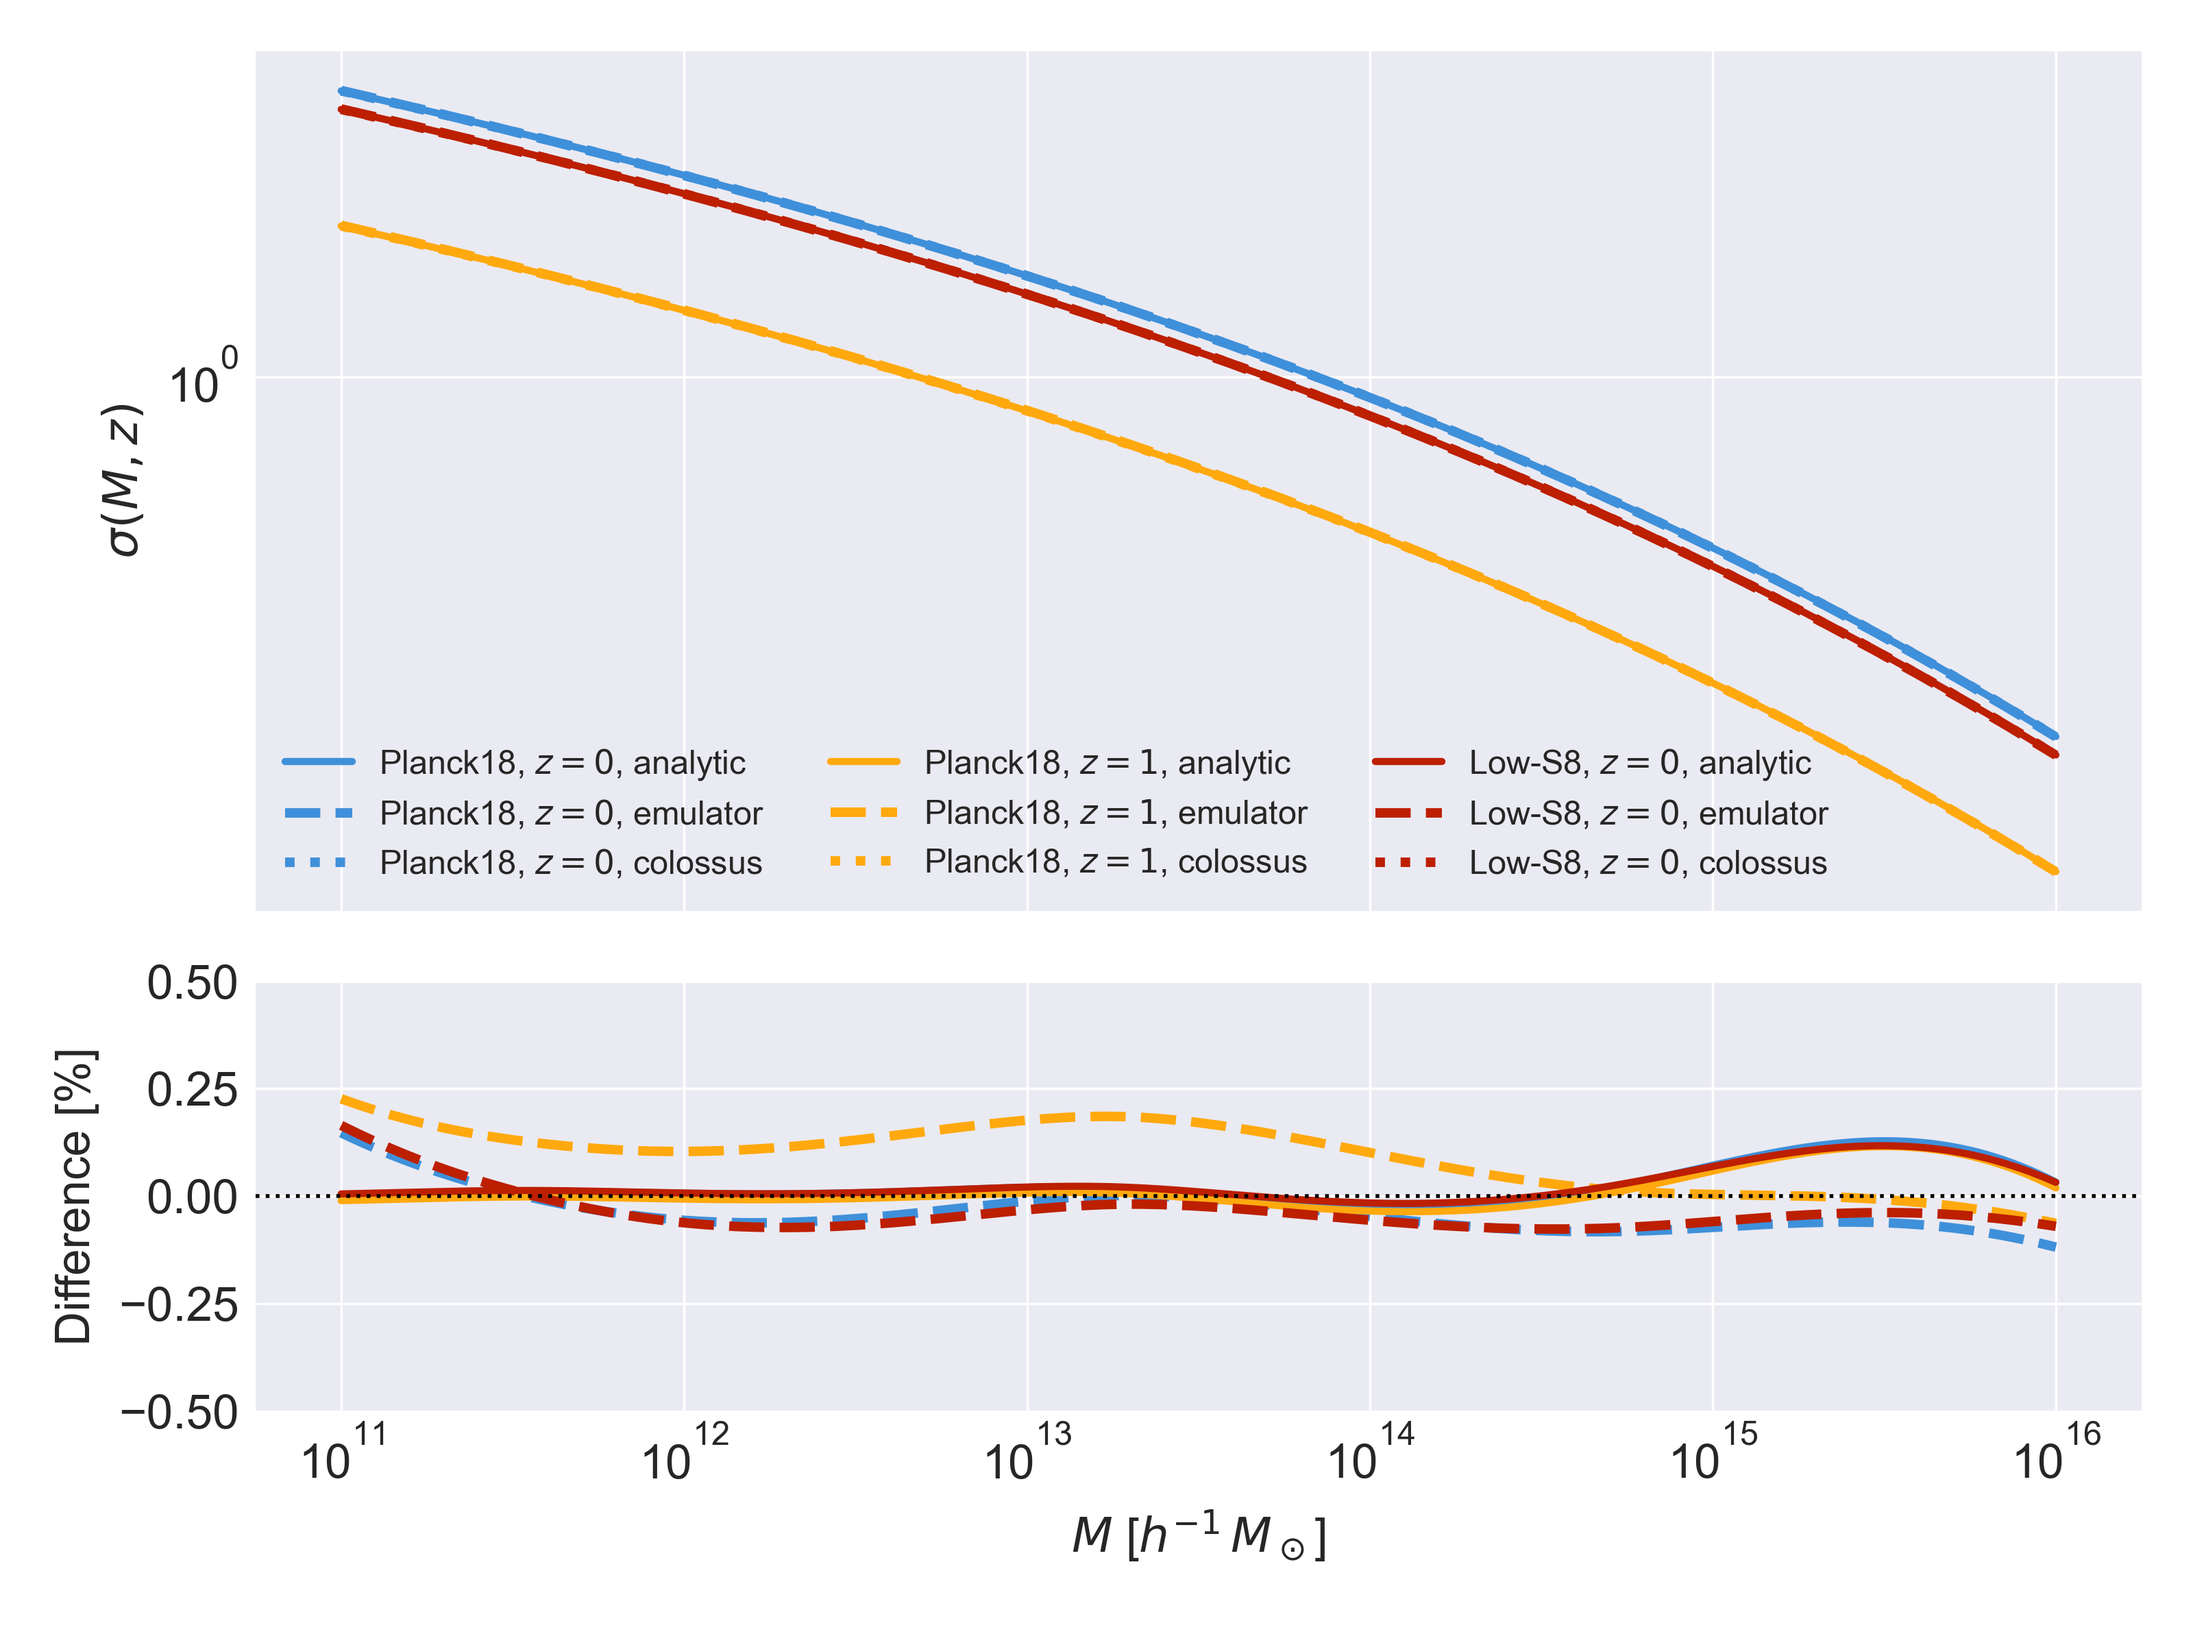
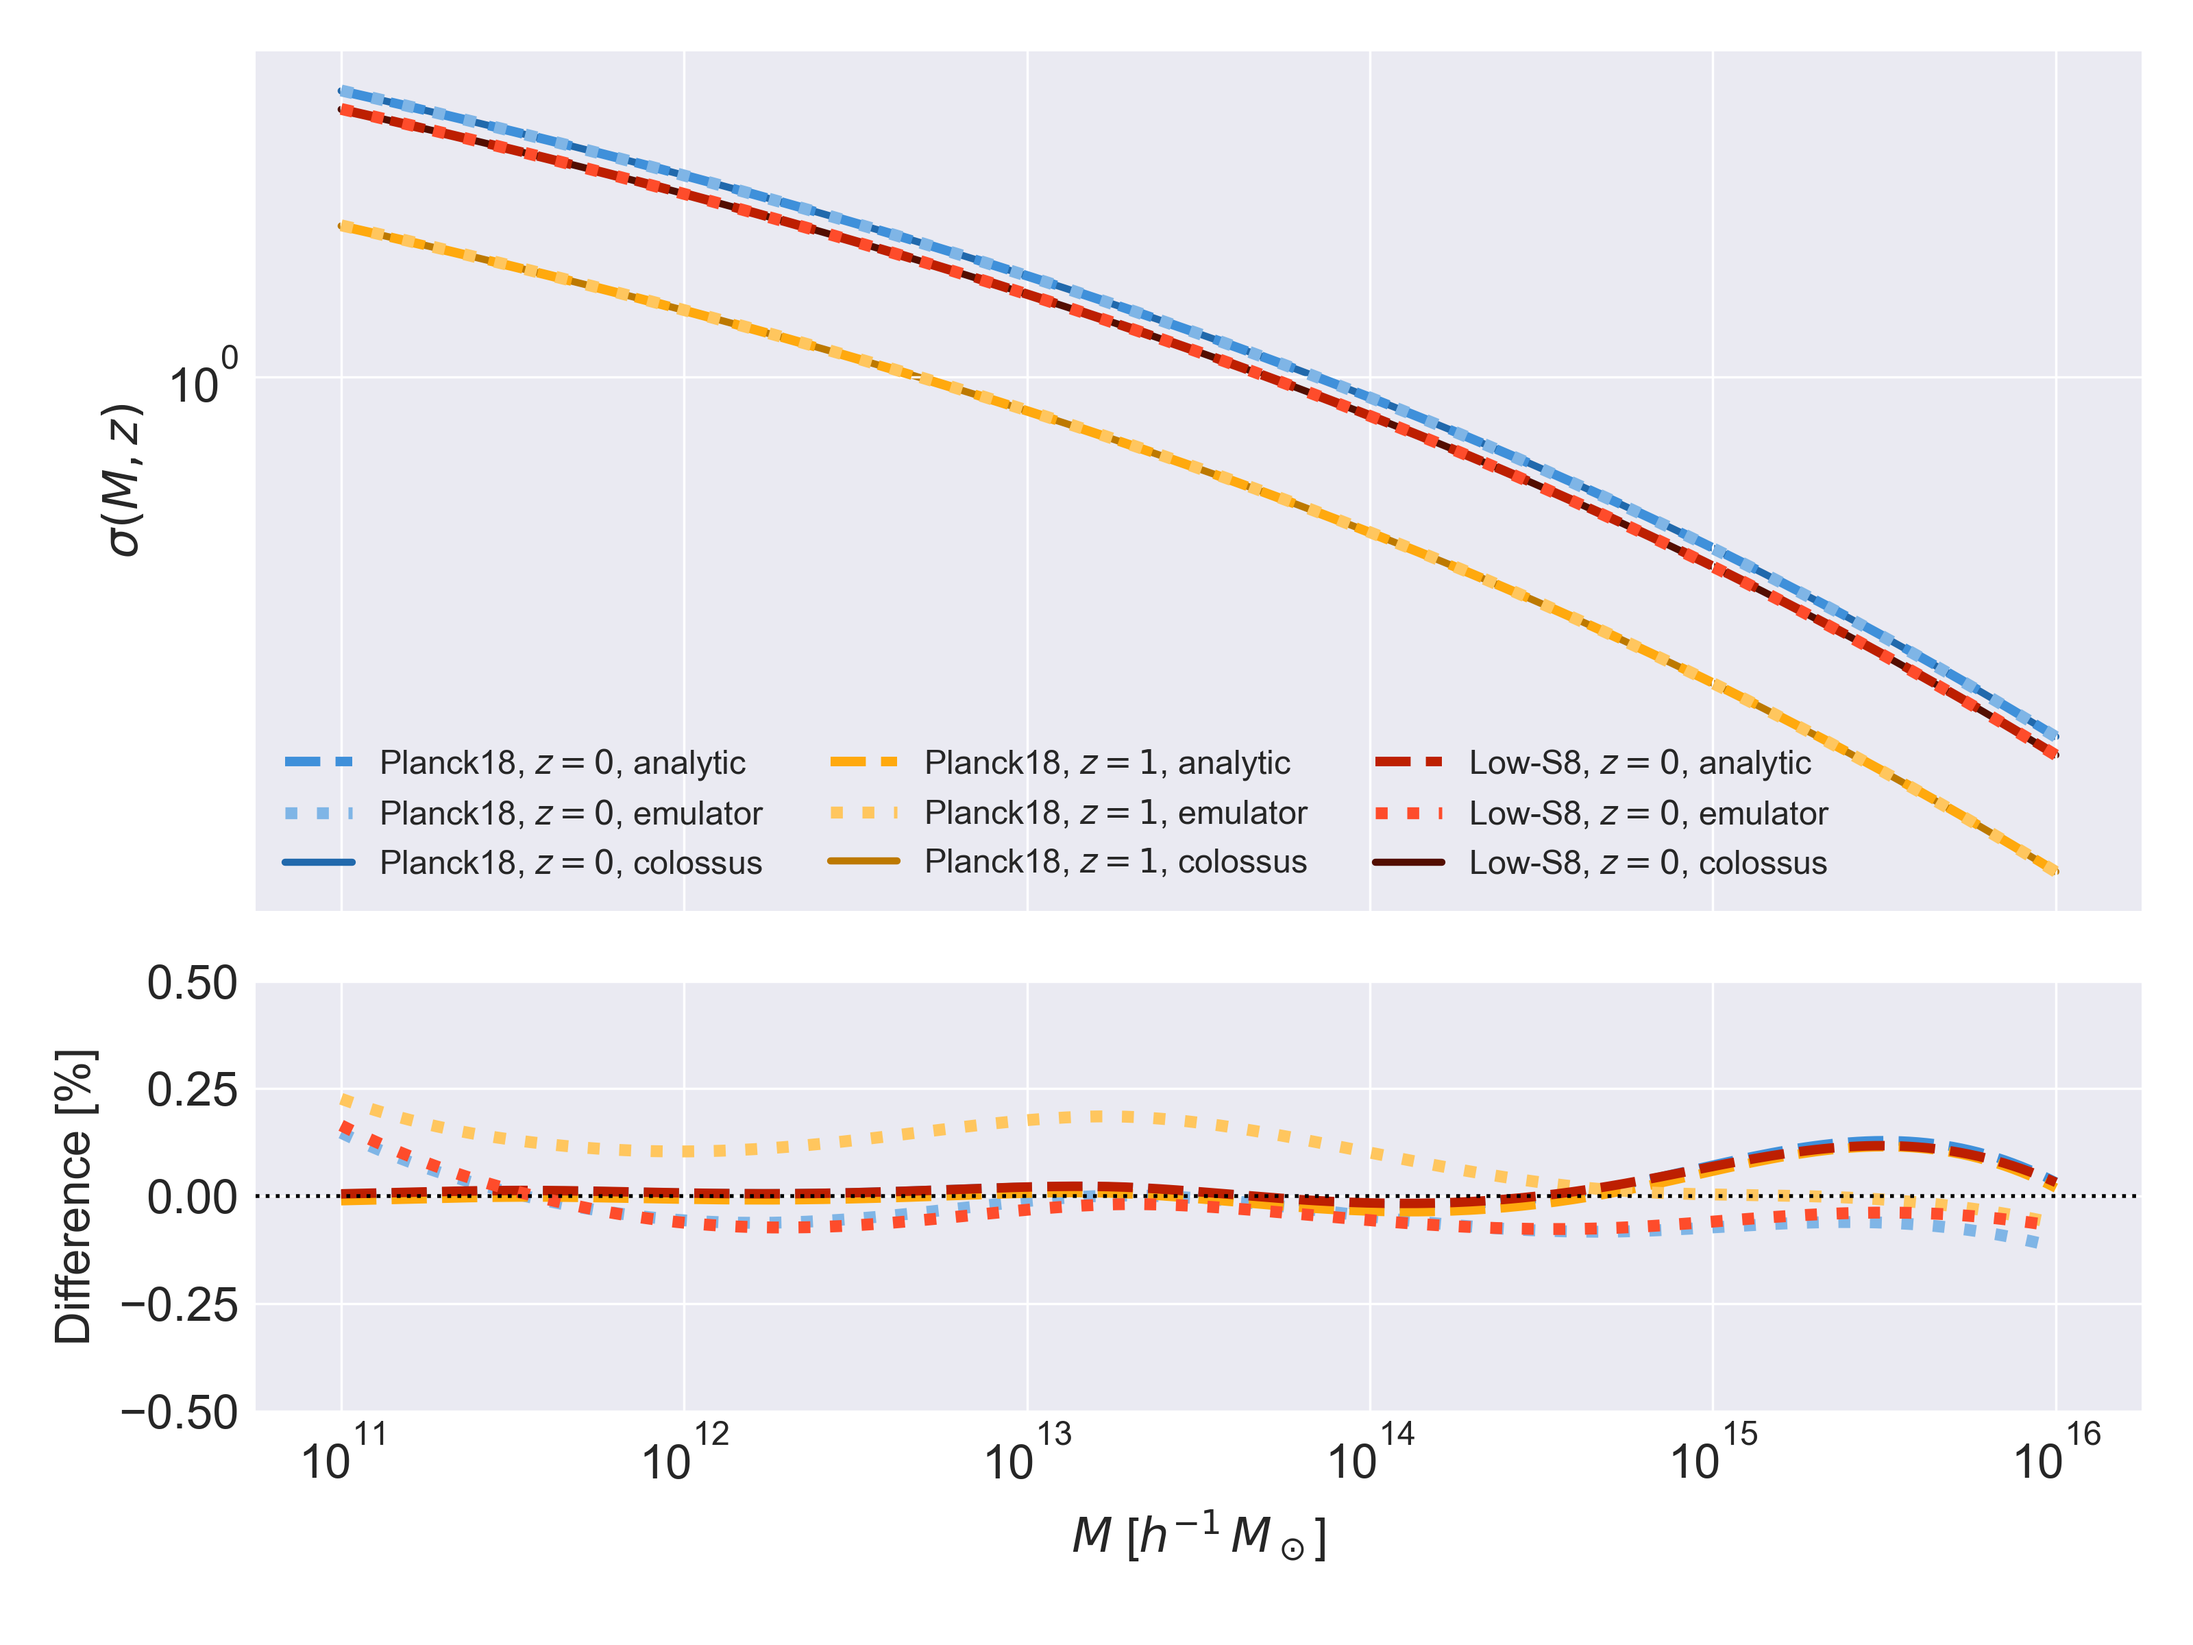
update plots

diff --git a/paper/figure_scripts/plot_sigmaM_emulator.py b/paper/figure_scripts/plot_sigmaM_emulator.py
@@ -2,7 +2,6 @@
 
 import jax
 import jax.numpy as jnp
-import matplotlib.pyplot as plt
 import numpy as np
 from colossus.lss import peaks, mass_function
 import colossus.cosmology.cosmology as cc
@@ -10,10 +9,19 @@ import colossus.cosmology.cosmology as cc
 from halox import cosmology, hmf, lss
 from halox.emus import SigmaMEmulator
 
+import matplotlib.pyplot as plt
+import matplotlib.colors as mcolors
+import colorsys
+
 jax.config.update("jax_enable_x64", True)
 
 plt.style.use(["seaborn-v0_8-darkgrid", "petroff10"])
 plt.rcParams.update({"xtick.direction": "in", "ytick.direction": "in"})
+def lighten_color(color, amount=0.5):
+    c = mcolors.to_rgb(color)
+    h, l, s = colorsys.rgb_to_hls(*c)
+    l = 1 - (1 - l) * (1 - amount)
+    return colorsys.hls_to_rgb(h, l, s)
 
 # --- Cosmologies ---
 cosmo_planck = cosmology.Planck18()
@@ -95,26 +103,32 @@ for label, color, sig_a, sig_e, sig_c in results:
         masses_np,
         sig_a,
         color=color,
-        ls="-",
-        lw=1.5,
+        ls="--",
+        lw=2.0,
         label=f"{label}, analytic",
     )
     ax_top.loglog(
         masses_np,
         sig_e,
-        color=color,
-        ls="--",
-        lw=2,
+        color=lighten_color(color, 1/3),
+        ls=":",
+        lw=2.5,
         label=f"{label}, emulator",
     )
     ax_top.loglog(
-        masses_np, sig_c, color=color, ls=":", lw=2, label=f"{label}, colossus"
+        masses_np,
+        sig_c,
+        color=lighten_color(color, -1/3),
+        ls="-",
+        lw=1.5,
+        zorder=0,
+        label=f"{label}, colossus",
     )
 
     diff_a = (sig_a / sig_c - 1) * 100
     diff_e = (sig_e / sig_c - 1) * 100
-    ax_bot.semilogx(masses_np, diff_a, color=color, ls="-", lw=1.5)
-    ax_bot.semilogx(masses_np, diff_e, color=color, ls="--", lw=2)
+    ax_bot.semilogx(masses_np, diff_a, color=color, ls="--", lw=2.0)
+    ax_bot.semilogx(masses_np, diff_e, color=lighten_color(color, 1/3), ls=":", lw=2.5)
 
 ax_top.set_ylabel(r"$\sigma(M, z)$")
 ax_top.legend(fontsize=7, ncol=3)
@@ -167,31 +181,32 @@ for label, color, hmf_a, hmf_e, hmf_c in hmf_results:
         masses_np,
         hmf_a,
         color=color,
-        ls="-",
-        lw=1.5,
+        ls="--",
+        lw=2.0,
         label=f"{label}, analytic",
     )
     ax_top2.loglog(
         masses_np,
         hmf_e,
-        color=color,
-        ls="--",
-        lw=2,
+        color=lighten_color(color, 1/3),
+        ls=":",
+        lw=2.5,
         label=f"{label}, emulator",
     )
     ax_top2.loglog(
         masses_np,
         hmf_c,
-        color=color,
-        ls=":",
-        lw=2,
+        color=lighten_color(color, -1/3),
+        ls="-",
+        lw=1.5,
+        zorder=0,
         label=f"{label}, colossus",
     )
 
     diff_a = (hmf_a / hmf_c - 1) * 100
     diff_e = (hmf_e / hmf_c - 1) * 100
-    ax_bot2.semilogx(masses_np, diff_a, color=color, ls="-", lw=1.5)
-    ax_bot2.semilogx(masses_np, diff_e, color=color, ls="--", lw=2)
+    ax_bot2.semilogx(masses_np, diff_a, color=color, ls="--", lw=2.0)
+    ax_bot2.semilogx(masses_np, diff_e, color=lighten_color(color, -1/3), ls=":", lw=2.5)
 
 ax_top2.set_ylabel(r"${\rm d}n/{\rm d}\ln M$ [$h^{3}\,\mathrm{Mpc}^{-3}$]")
 ax_top2.legend(fontsize=7, ncol=3)
